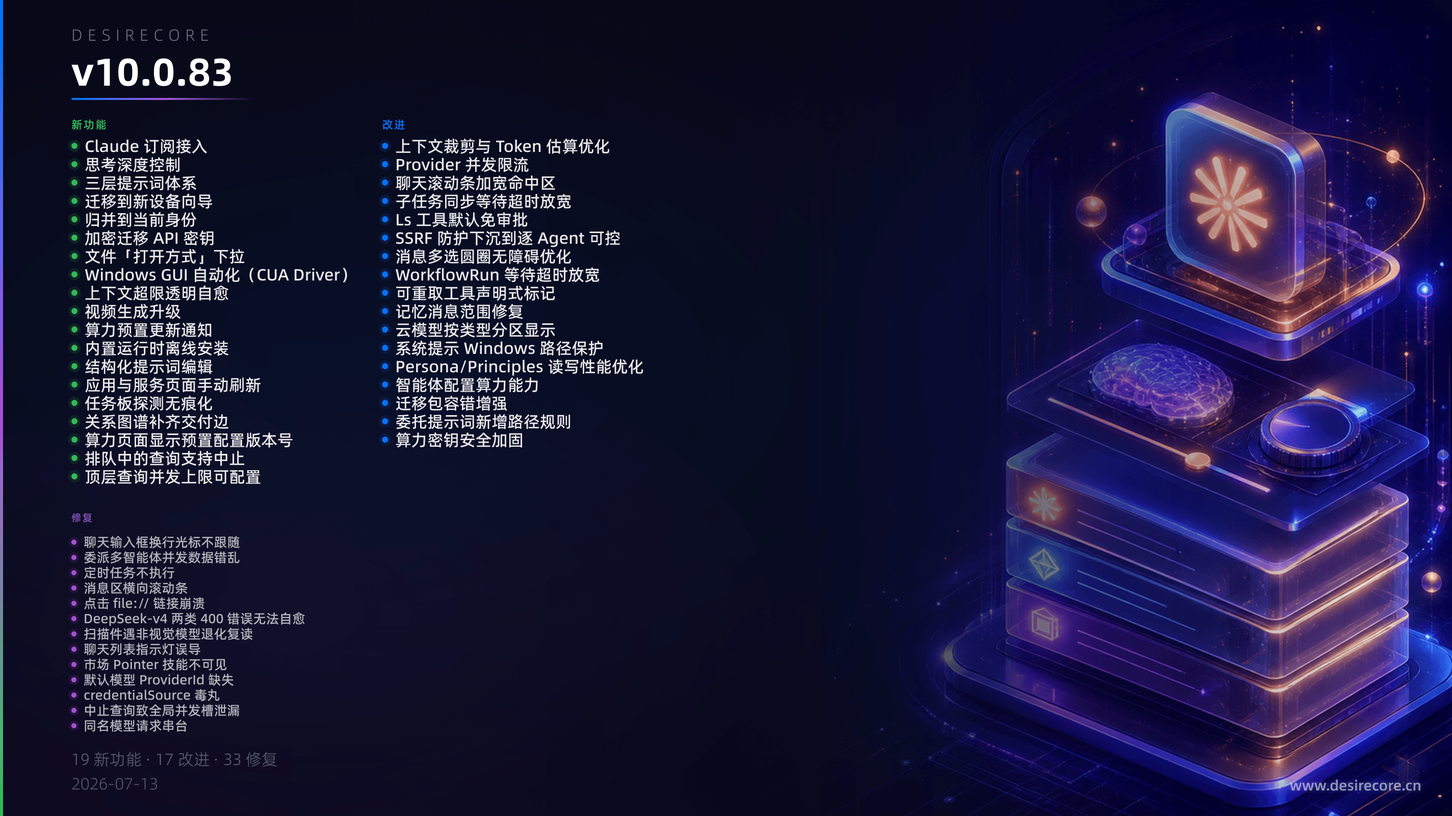
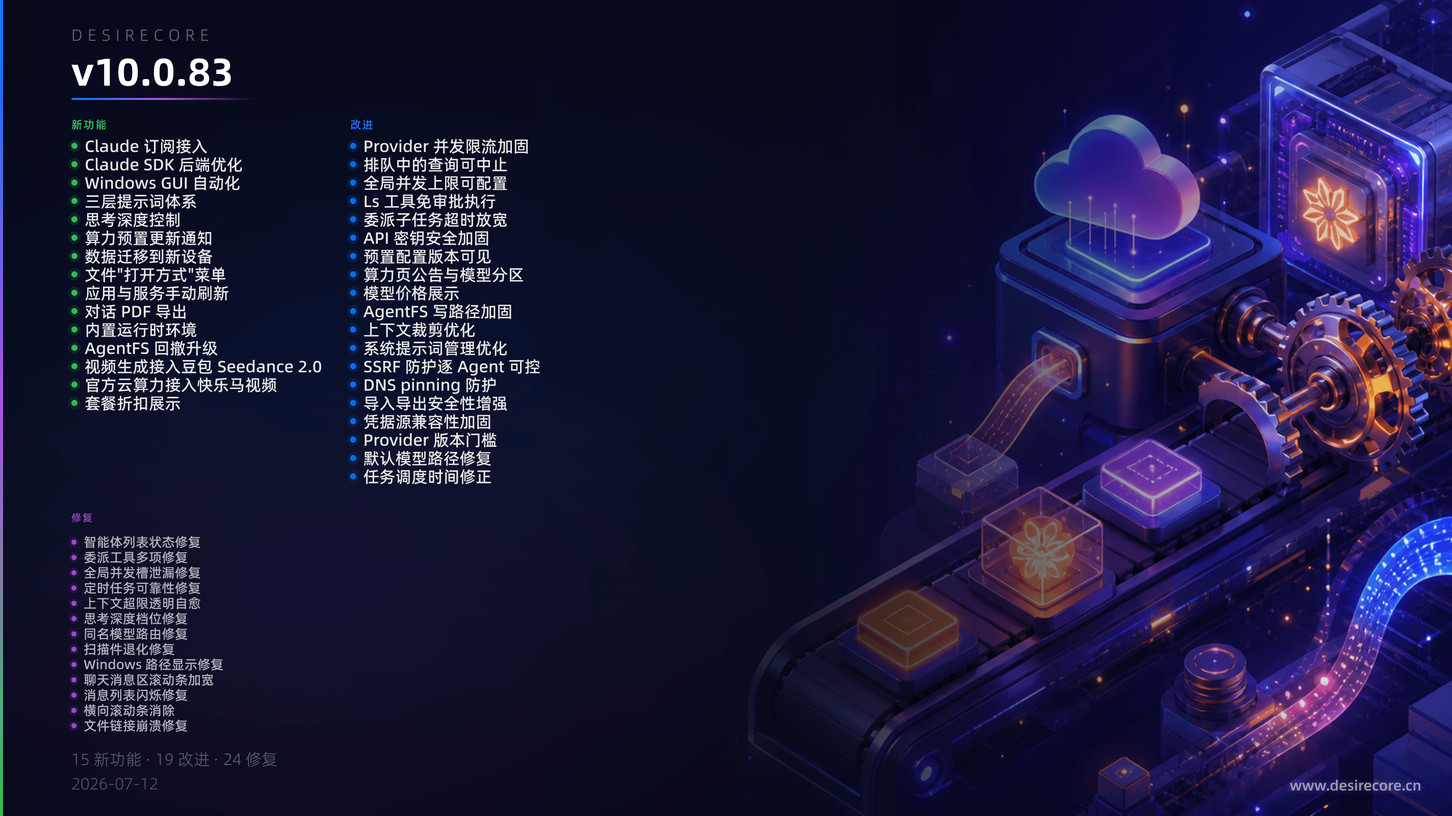
docs: update changelog for v10.0.83

diff --git a/i18n/en/docusaurus-plugin-content-docs/current/05-more/10-changelog/v10.0.83.md b/i18n/en/docusaurus-plugin-content-docs/current/05-more/10-changelog/v10.0.83.md
@@ -10,76 +10,65 @@ sidebar_position: 17
 ![v10.0.83 更新概览](/img/changelog/v10.0.83-en.png)
 
 ## New Features
-- **Claude Subscription Integration**: Support for logging in via Claude Code OAuth or manual configuration, using Claude Pro/Max subscription compute; model calls are fulfilled through the built-in official SDK backend with complete audit trails.
-- **Thinking Depth Control**: Added thinking depth level buttons in the chat input area, supporting Off / Auto / Deep multiple levels, with per-session memory; covers OpenAI, Anthropic, and domestic model dialects.
-- **Three-Tier Prompt System**: Added global (personal) and team-level prompts, injected on top of Agent-level prompts; new centralized Prompt Center for unified management, editing, and preview of all three tiers.
-- **Migrate to New Device Wizard**: A new “Migrate to New Device” entry in Settings, with a five-step wizard to export all data; on the new machine, the import process automatically recognizes the migration package, supports identity comparison, pre-backup protection, and restart to apply.
-- **Merge into Current Identity**: When importing a migration package, supports “Merge into Current Identity” mode, which remaps source identity data to the local identity name while keeping the local identity unchanged.
-- **Encrypted API Key Migration**: Optionally carry custom Provider API keys during migration, encrypted with a passphrase and stored independently (original secrets files are never included in the package); upon import, decide merging for each Provider individually.
-- **File “Open With” Dropdown**: File entries in chat messages now have an “Open With” menu, supporting in-app open, system default app, choose another app, and locate in file manager.
-- **Windows GUI Automation (CUA Driver)**: The Windows installer ships with cua-driver, enabling Agents to control desktop applications (screenshot, click, type, read window). Background operations do not steal focus, and users get out-of-the-box experience with zero setup.
-- **Transparent Context Overrun Self-Healing**: When the context exceeds the model’s true limit, the system automatically learns the real window and transparently retries; for large outputs, dynamic budget calculation produces the result in one go, eliminating manual adjustments.
-- **Video Generation Upgrade**: Upgraded to OpenAI Video API standard format, integrated official cloud compute for image/video generation, and adapted for the Doubao Seedance 2.0 video model.
-- **Compute Preset Update Notification**: When official Provider or model configurations published by config-center change, a notification badge and review panel show conflict diff and change details; users can adopt or keep each item.
-- **Built-in Runtime Offline Installation**: The installer bundles Python 3.13 and Node 24 LTS offline runtimes; they are silently imported in the background on first launch, enabling environment setup without internet.
-- **Structured Prompt Editing**: Agent persona and principles now support L0/L1/L2 layered form editing, with automatic format and schema validation on save; the system prompt preview panel shows segment proportions and allows copying the full prompt.
-- **Manual Refresh on Apps & Services Page**: Added a refresh button to manually synchronize registry directories and the pending approval queue.
-- **Stealth Task Board Probing**: Switching sessions no longer floods the console with 404 error logs from probing non-existent task boards.
-- **Relationship Graph Now Shows Delivery Edges**: After an Agent successfully delivers results, the “delivery” relationship edge is correctly displayed in the relationship graph, forming a closed loop with the “delegation” edge.
-- **Compute Page Shows Preset Configuration Version**: The header metadata area displays the current preset data version, aiding in troubleshooting configuration sync issues.
-- **Queued Queries Can Be Cancelled**: Users can stop a request at any time while waiting in the queue, preventing unconditional scheduling and execution.
-- **Top-Level Query Concurrency Limit Configurable**: The number of simultaneous top-level queries can be customized via an environment variable; interactive queries automatically take priority over background tasks.
+- **Claude Subscription Integration**: Claude Pro/Max subscriptions can now be used as a compute source. Connect via Claude Code login, in-app OAuth, or a manual token. Model calls are fulfilled through the official Agent SDK.
+- **Claude SDK Backend Optimization**: Conversation history automatically resumes a cached Claude session to reduce duplicate quota consumption. Images can be passed directly to the model. WebSearch is available during conversations.
+- **Windows GUI Automation**: The Windows client includes a built-in cua-driver. Agents can directly operate native application interfaces (screenshot, click, input) with zero installation and out‑of‑the‑box use.
+- **Three‑tier Prompt System**: A new global tier (user‑level) and team‑tier prompts are added, applied together with the Agent tier. The Prompt Center manages all three tiers with structured editing and live preview.
+- **Thinking Depth Control**: A thinking depth selector (Auto/Off/five depth levels) has been added to the input area. Supports three‑level priority: session, Agent, and global default, and works with OpenAI, Anthropic, and domestic model dialects.
+- **Compute Preset Update Notifications**: User‑customized Provider configurations are no longer silently overwritten by upstream updates. When conflicts arise, review them item by item in the review panel and adopt upstream values with a single click.
+- **Data Migration to a New Device**: The export wizard can package agents, configurations, and API keys (encrypted) for migration to a new device. During import, the system automatically identifies and completes identity replacement or data merging.
+- **File “Open With” Menu**: File entries in chats now have an “Open With” dropdown to let you open the file inside the app, with the system default, with another program, or locate it in the folder.
+- **Manual Refresh for Apps & Services**: A refresh button has been added to the page title bar so you can manually sync the service directory status.
+- **Conversation PDF Export**: Export now uses client‑side rendering, making the process more stable.
+- **Built‑in Runtimes**: Python 3.13 and Node.js 24 LTS are bundled with the installer, silently imported on first launch, and fully available offline.
+- **AgentFS Rollback Upgrade**: Agent file system rollback now uses Git full‑tree snapshots, supporting complete restoration. Git is built into the application so there are no system dependencies.
+- **Video Generation Integration with Doubao Seedance 2.0**: The video generation pipeline now adapts to the Doubao Seedance model, supporting start/end frames and multiple reference images.
+- **Official Cloud Compute Accesses Happyhorse Video**: Official cloud compute users can now use happyhorse-1.1 video generation and OpenAI image generation directly.
+- **Plan Discount Display**: The purchase page can now show strikethrough original prices and discount information.
 
 ## Fixes
-- **Cursor Not Following Line Breaks in Chat Input**: After operations like Shift+Enter line break, accepting prediction suggestions, or history recall, the cursor now scrolls into the visible area automatically.
-- **Data Corruption in Concurrent Multi-Agent Delegation**: Fixed data consistency issues during concurrent delegation, including team directory conflicts, member loss, half-written file corruption, and task count drift.
-- **Scheduled Tasks Not Executed**: Fixed an issue where scheduled tasks would reply with a single confirmation and then be truncated without ever completing; failed tasks now correctly back off and alert instead of infinitely retrying.
-- **Horizontal Scrollbar in Message Area**: Long URLs and wide Markdown tables no longer force a horizontal scrollbar; content is always fully visible.
-- **Crash When Clicking file:// Links**: Clicking a local file link in an Agent’s reply no longer crashes or grays out the window; instead it is opened with the system default app.
-- **Two Types of 400 Errors from DeepSeek-v4 Could Not Self-Heal**: Gateway `max_tokens` range limit errors and missing thinking block return errors are now automatically learned, corrected, and transparently retried.
-- **Scan with Non-Vision Model Degenerates into Repetition**: When reading a pure image-scan PDF using a non-vision model, the system now prompts to switch models directly instead of clearing tools, which previously caused the model to endlessly repeat output.
-- **Chat List Indicator Misleading**: The list indicator light no longer incorrectly shows green while an Agent is executing tools; it now correctly displays yellow (busy).
-- **Market Pointer Skill Invisible**: ADR-038 pointer-type skills are once again visible in the marketplace, searchable, and viewable in detail; version update detection works correctly.
-- **Missing ProviderId for Default Model**: Fixed a problem where historical data lost the ProviderId for the default model configuration, causing the default to become permanently invalid.
-- **credentialSource Poison Pill**: Fixed an issue where older clients merging a Provider preset containing unknown credential sources would reject the entire configuration, causing all compute to fail; now only unsupported Providers are skipped, and the rest work normally.
-- **Global Concurrency Slot Leak from Aborted Queries**: Repeatedly stopping queries manually no longer exhausts global concurrency slots, which previously froze all Agents. Also fixed leak paths triggered by system sleep and session reset.
-- **Request Misrouting for Identically Named Models**: When multiple Providers have identically named models, requests are no longer incorrectly routed to an unrelated Provider.
-- **Imported Agent List Offline**: Imported or cloned Agents now appear online in the list immediately without requiring an application restart.
-- **Missing Validation for Fan-out Delegation Targets**: When delegating to multiple targets simultaneously, invalid targets are now explicitly reported as failed instead of being silently skipped; the delegation card correctly shows all target names.
-- **AgentFS Hot Reload Failure**: Changes made by directly editing files like `agent.json` now take effect instantly without relying on manual refresh.
-- **Mismatched Async Acknowledgment for send_message**: Concurrent async message acknowledgments are no longer incorrectly assigned to other waiting synchronous requests.
-- **Mismatched Reply for Concurrent via-messaging Requests**: When the same caller makes multiple delegation/message/assist requests to the same target concurrently, replies are now precisely matched to the corresponding request.
-- **Window Flicker When Scrolling Past Bottom of Chat**: Continued scrolling after reaching the bottom of the message list no longer triggers window flickering.
-- **Chat Message Action Bar Overflow**: Action buttons beneath short messages no longer overflow and cover the timestamp.
-- **Unresponsive Selection Circle in Multi-Select Mode**: Fixed an issue where clicking the selection circle was unresponsive in certain scenarios.
-- **Market Repository Source Saving Stuck**: After adding a new repository source, the interface no longer gets stuck on “Saving” or shows repeated progress.
-- **Relationship Heat Value Overflow**: Relationship heat on the agent list is displayed as thousands with one decimal place, no longer bursting the card.
-- **Cannot Cancel During Pipeline Assembly Phase**: The tool assembly and context preparation phase (after acquiring a slot but before the actual query) now responds to stop operations.
-- **Service Directory Rendering Crash**: Dirty data generated when an Agent registers a service on behalf of someone no longer crashes the pending approval page; directory status updates in real time.
-- **Duplicate Team Creation with Same Name**: Duplicate team creation by AI repeated calls is now automatically deduplicated, preventing redundant teams.
-- **Orphaned Teams After Deleting Agent**: Teams that contained the deleted agent are automatically disbanded or have the member removed, preventing orphaned teams.
-- **Scanned Document Tool Clearance Causing Degenerative Repetition with Non-Vision Model**: Now directly prompts to switch model instead of letting the model fall into a dead loop with no available tools.
-- **Provider Concurrent Queue Without Timeout or Cancel**: Queued requests that are disconnected or aborted are immediately dequeued and no longer blocked.
-- **Failed to Clear Data on Windows**: Fixed errors when clearing data caused by read-only git files and reserved device name files.
-- **Git Operations Failed on Windows**: Fixed failures in market sync, Agent snapshots, etc., caused by git binary paths containing spaces or colons.
-- **Missing Cancel Checkpoint During Pipeline Assembly Phase**: Long-running steps like MCP tool discovery now respond to cancellation.
-- **Missing OpenAI Entry Point for Claude SDK Backend**: OpenAI-format requests are now correctly routed to the Claude SDK backend.
+- **Agent List State Fix**: Imported/cloned agents now appear online immediately without needing to restart the app. The chat sidebar correctly refreshes names after an agent is renamed.
+- **Multiple Delegation Tool Fixes**: Parallel delegation no longer skips target validation; invalid targets produce clear errors. Delegation cards correctly display multiple target names. AgentFS file watching resumes immediately and takes effect on change.
+- **Global Concurrency Slot Leak Fix**: Stopping generation no longer causes a session to be permanently stuck in “Queued”. Concurrency slots are no longer exhausted after the system wakes from sleep.
+- **Scheduled Task Reliability Fix**: Scheduled tasks now truly execute the full workflow when due, instead of being truncated after one reply. Failed tasks back off and retry correctly instead of retrying endlessly. One‑time tasks are prevented from firing more than once.
+- **Context Overflow Transparent Self‑Healing**: When the cloud model’s actual context window differs from what is declared, the system learns the real limit from error messages and auto‑adjusts. Large output is now produced in a single pass instead of being split into continuations.
+- **Thinking Depth Tier Fix**: The deepest tier’s budget no longer collapses; the distinction between tiers is back to normal. Resetting to the default tier no longer leaves a previous depth setting active.
+- **Same‑Name Model Routing Fix**: When an official cloud model and a local Provider share the same name, requests are now precisely routed to the intended Provider without leaking to another.
+- **Scanned Document Degradation Fix**: Non‑vision models reading pure scanned documents now prompt to switch models directly without getting stuck in infinite repetitive output.
+- **Windows Path Display Fix**: Windows paths in system prompts no longer lose backslashes and stay correct after copying.
+- **Chat Message Area Scrollbar Widened**: Makes mouse dragging easier.
+- **Message List Flicker Fix**: Scrolling further when already at the bottom no longer causes the whole window to flicker.
+- **Horizontal Scrollbar Eliminated**: Long URLs now wrap, and wide tables scroll internally, so content remains fully visible.
+- **File Link Crash Fix**: Clicking a local file link in an Agent reply no longer crashes the window; the file is opened by the system’s default application instead.
+- **Task Board Startup Noise Elimination**: Startup and session switching no longer generate 404 error logs.
+- **Market Repository Source Save Fix**: Adding a repository source no longer gets stuck at “Saving” or shows duplicates.
+- **Service Directory Real‑time Status Update**: The directory now refreshes automatically after a service is registered; no manual action is needed.
+- **Relationship Graph Delivery Edge Fix**: The relationship edge for successful Agent delivery is now correctly displayed.
+- **Input Cursor Following**: After actions like line breaks or history navigation, the cursor now auto‑scrolls into the visible area.
+- **Message Action Bar Overflow Fix**: Action buttons on short messages no longer cover the timestamp.
+- **Multi‑select Mode Fix**: Clicking the selection circle in multi‑select mode now responds reliably and is no longer intercepted by video players or other elements.
+- **Relationship Heat Display Optimization**: Heat values are now shown with a thousands separator and one decimal place, no longer overflowing the card.
+- **Windows Data Clear Fix**: In‑app data clearing no longer fails because of read‑only Git files or reserved device name files.
+- **macOS Build Fix**: Fixed packaging failures caused by notarization rejections and broken symbolic links.
+- **Large File Publishing Fix**: Large installer uploads now use chunked uploads, eliminating timeouts and freezes on slow links.
 
 ## Improvements
-- **Context Trimming and Token Estimation Optimization**: Trimming now uses a cheapest-first cascading strategy, with lossless unloading of re-fetchable tool results; token estimation now covers previously missed thinking and tool names, and non-OpenAI models automatically include additional margin.
-- **Provider Concurrency Limiting**: Each Provider can have a maximum concurrent request limit and queue size; excess requests wait in a queue instead of immediately failing. Configuration takes effect instantly.
-- **Wider Chat Scrollbar Hit Area**: The message list scrollbar track width increased to 10px for easier dragging.
-- **Relaxed Timeout for Synchronous Sub-Task Waiting**: Default wait time for delegation, `spawn_agent`, `send_message`, etc., extended from 5 minutes to 30 minutes; upon timeout, the task is no longer aborted automatically but instead prompts the caller to decide.
-- **Ls Tool Default No Approval**: Directory listing now executes directly; on macOS, first access to a protected directory triggers a system authorization dialog, and a permission denied response includes guidance.
-- **SSRF Protection Down to Per-Agent Control**: Each Agent can enable internal network protection individually, and DNS rebinding attacks are also blocked.
-- **Message Multi-Select Circle Accessibility Improved**: Selection circles are now semantic buttons, supporting keyboard operation and screen readers.
-- **Relaxed WorkflowRun Wait Timeout**: Running workflows is no longer truncated by a fixed timeout; a custom timeout can be passed.
-- **Declarative Marking of Re-fetchable Tools**: The “re-fetchable” attribute of a tool is now declared in the registry, and MCP tools automatically derive it based on the protocol.
-- **Memory Message Range Fix**: Message counts in thread details no longer show abnormally large values (billions); historical dirty data is auto-repaired.
-- **Cloud Models Display Partitioned by Type**: Official compute models are displayed in partitions (text / image generation / video generation), with pricing shown by billing mode and supplier announcements at the top.
-- **System Prompt Windows Path Protection**: Windows paths in system prompts are wrapped in inline code to prevent backslash escaping by Markdown.
-- **Persona/Principles Read/Write Performance Optimization**: Uses caching based on file modification time, re-parsing only after external edits.
-- **Agent Capability to Configure Compute**: Agents can help users configure Providers and API keys; keys are write-only for Agents.
-- **Enhanced Migration Compatibility**: Old-version export packages and future-version packages can be safely imported, with proactive alerts when importing across identities.
-- **Delegation Prompt Adds Path Rules**: When passing file resources across Agents, absolute paths are automatically used.
-- **Compute Key Security Hardening**: Keys are automatically masked in HTTP responses; plaintext viewing requires IPC channel authorization. Read/Grep/Ls tools are precisely denied access to key files.
+- **Provider Concurrent Rate Limiting Hardening**: You can now configure the maximum concurrent requests per Provider and a queuing strategy to avoid upstream throttling. A real‑time diagnostic endpoint is also provided.
+- **Cancellable Queries in Queue**: Queries waiting in the queue can now be properly cancelled. Interactive queries are prioritized over background tasks.
+- **Configurable Global Concurrency Limit**: The top‑level concurrent query limit defaults to 3 and can be adjusted via an environment variable.
+- **Ls Tool Execution Without Approval**: Listing directory contents no longer requires approval; permission checks are delegated to the operating system. Clear authorization guidance is provided when accessing restricted directories.
+- **Delegation Sub‑Task Timeout Relaxed**: The synchronous wait timeout has been extended from 5 minutes to 30 minutes. After a timeout, the sub‑task is no longer automatically terminated; the caller decides whether to continue or stop.
+- **API Key Security Hardening**: Agents can only write keys and cannot read them. Keys are masked by default in the UI. File tools precisely intercept attempts to read key files.
+- **Preset Configuration Version Visibility**: The current preset data version number is displayed at the top of the Compute page, making it easier to troubleshoot configuration sync issues.
+- **Compute Page Announcements & Model Partitioning**: Official cloud models are now displayed in partitions for Text, Image Generation, and Video Generation. Generation‑only models are marked “Unavailable in conversations”.
+- **Model Pricing Display**: Token‑priced models show a relative rate multiplier. Other billing modes show the unit price and pricing basis. Vendor information is displayed at the top.
+- **AgentFS Write Path Hardening**: Concurrent modification of Agent configurations no longer loses updates. Crashes during a write no longer leave half‑written files.
+- **Context Trimming Optimization**: The trimming budget is more precise. When results of re‑fetchable tools are evicted, re‑fetch guidance is preserved. Auto‑compression and memory injection ensure delivery to the model.
+- **System Prompt Management Improvements**: Agent‑level capability declaration toggles are now supported. Persona editing uses a structured form. Prompt preview shows the visual proportion of each section.
+- **Per‑Agent SSRF Protection**: Each Agent can independently configure restrictions for external network access, preventing DNS rebinding attacks.
+- **DNS Pinning Protection**: Before actually sending an outbound request, the Agent verifies the target IP again to prevent a domain from being tampered with to point to an internal network after registration.
+- **Import & Export Security Enhancement**: Prevents malicious zip archive boundary over‑writes. The service automatically recovers after a failed import.
+- **Credential Source Compatibility Hardening**: New credential source types no longer cause older clients to crash or make compute resources unavailable. Unsupported credential sources show a clear upgrade prompt.
+- **Provider Version Threshold**: Upstream Provider presets can declare a minimum client version. If the requirement is not met, an upgrade prompt is shown instead of silently failing.
+- **Default Model Path Fix**: Missing Provider identifiers in historical data are now auto‑repaired. Explicitly specified Providers are no longer incorrectly routed to other Providers.
+- **Task Scheduling Time Correction**: The current time is now automatically injected at every turn of the conversation. The Agent no longer calculates based on the “old time” from when the session started.

diff --git a/docs/05-more/10-changelog/v10.0.83.md b/docs/05-more/10-changelog/v10.0.83.md
@@ -10,76 +10,65 @@ sidebar_position: 17
 ![v10.0.83 更新概览](/img/changelog/v10.0.83.png)
 
 ## 新功能
-- **Claude 订阅接入**：支持通过 Claude Code OAuth 登录或手动配置，使用 Claude Pro/Max 订阅算力，模型调用经内置官方 SDK 后端履约，审计链路完整
-- **思考深度控制**：聊天输入区新增思考深度档位按钮，支持关闭/自动/深度多档调节，会话独立记忆；覆盖 OpenAI、Anthropic 及国产模型方言
-- **三层提示词体系**：新增全局层（个人）和团队层提示词，与 Agent 层叠加注入；新增集中式提示词中心，统一管理三层提示词的编辑与预览
-- **迁移到新设备向导**：设置页新增「迁移到新设备」入口，五步向导引导导出全量数据；新机导入时自动识别迁移包，支持身份对比、预备份保护和重启生效
-- **归并到当前身份**：导入迁移包时支持「归并到当前身份」模式，将包内源身份的数据定向重映射到本机名下，本机身份不变
-- **加密迁移 API 密钥**：迁移时可选择携带自定义 Provider 的 API 密钥，经口令加密后独立存储（原始 secrets 文件永不进包），导入时逐 Provider 决策合并
-- **文件「打开方式」下拉**：聊天消息中的文件条目新增打开方式菜单，支持应用内打开、系统默认应用、选择其他应用、在文件管理器中定位
-- **Windows GUI 自动化（CUA Driver）**：Windows 安装包内置 cua-driver，Agent 可操控桌面应用（截图、点击、输入、读取窗口），后台操作不抢焦点，用户零安装开箱即用
-- **上下文超限透明自愈**：当上下文超出模型真实上限时自动学习真实窗口并透明重试，大输出自动计算动态预算一次成型，无需手动调整
-- **视频生成升级**：升级为 OpenAI Video API 标准格式，接入官方云算力图像/视频生成，并适配豆包 Seedance 2.0 视频模型
-- **算力预置更新通知**：当 config-center 发布的官方 Provider 或模型配置发生变更时，通过通知角和审阅面板展示冲突对比与变更明细，用户可逐项决定采用或保留
-- **内置运行时离线安装**：安装包内置 Python 3.13 和 Node 24 LTS 离线运行时，首启后台静默导入，无需联网即可完成环境配置
-- **结构化提示词编辑**：Agent 的 persona 和 principles 支持 L0/L1/L2 分层表单编辑，保存时自动校验格式与 Schema；系统提示词预览面板可查看各段占比并复制全文
-- **应用与服务页面手动刷新**：新增刷新按钮，可手动同步注册表目录与待审批队列
-- **任务板探测无痕化**：切换会话时不再因探测不存在的任务板而在控制台刷 404 错误日志
-- **关系图谱补齐交付边**：Agent 成功交付结果后，关系图谱中正确显示「交付」关系边，与「委派」边形成闭环
-- **算力页面显示预置配置版本号**：头部元数据区展示当前预置数据版本，便于排查配置同步问题
-- **排队中的查询支持中止**：用户在排队等待期间可随时停止请求，不再被无条件调度执行
-- **顶层查询并发上限可配置**：通过环境变量可自定义同时运行的顶层查询数量，交互式查询自动优先于后台任务
+- **Claude 订阅接入**：支持 Claude Pro/Max 订阅作为算力来源，可通过 Claude Code 登录、应用内 OAuth 或手动 Token 三种方式连接，模型调用经官方 Agent SDK 履约。
+- **Claude SDK 后端优化**：对话历史自动续接已缓存的 Claude 会话，减少重复消耗配额；图片可直接透传给模型；WebSearch 在对话中可用。
+- **Windows GUI 自动化**：Windows 客户端内置 cua-driver，Agent 可直接操作原生应用界面（截图、点击、输入），零安装开箱即用。
+- **三层提示词体系**：新增全局层（用户级）和团队层提示词，与 Agent 层叠加生效；提示词中心统一管理三层内容，支持结构化编辑与实时预览。
+- **思考深度控制**：输入区新增思考深度选择按钮（自动/关闭/五档深度），支持会话级、Agent 级和全局默认三级优先级，适配 OpenAI、Anthropic 及国产模型方言。
+- **算力预置更新通知**：用户自定义的 Provider 配置不会被上游更新静默覆盖，产生冲突时在审阅面板逐项对比决策，支持一键采用上游值。
+- **数据迁移到新设备**：导出向导可打包智能体、配置和 API 密钥（加密保护）迁移到新设备，新机导入时自动识别并完成身份替换或数据归并。
+- **文件"打开方式"菜单**：聊天中的文件条目新增"打开方式"下拉，可选择应用内打开、系统默认应用、其他应用或在文件夹中定位。
+- **应用与服务手动刷新**：页面标题栏新增刷新按钮，可手动同步服务目录状态。
+- **对话 PDF 导出**：改为客户端本地渲染，导出更稳定。
+- **内置运行时环境**：Python 3.13 和 Node.js 24 LTS 随安装包内置，首启静默导入，完全离线可用。
+- **AgentFS 回撤升级**：Agent 文件系统回撤改用 Git 全树快照，支持整体还原，且应用内置 Git 确保无系统依赖。
+- **视频生成接入豆包 Seedance 2.0**：视频生成中转适配豆包 Seedance 模型，支持首尾帧和多参考图。
+- **官方云算力接入快乐马视频**：官方云算力用户可直接使用 happyhorse-1.1 视频生成和 OpenAI 图像生成。
+- **套餐折扣展示**：购买页面支持显示原价划线和折扣信息。
 
 ## 修复
-- **聊天输入框换行光标不跟随**：按 Shift+Enter 换行、接受预测建议、历史回溯等操作后，光标自动滚入可视区域
-- **委派多智能体并发数据错乱**：修复并发委派时团队目录冲突、成员丢失、文件半写损坏、任务计数漂移等数据一致性问题
-- **定时任务不执行**：修复定时任务到期后只回复一句确认就被截断、从未真正完成的问题；失败任务正确退避告警而非无限硬刷
-- **消息区横向滚动条**：长 URL 和宽 Markdown 表格不再撑出横向滚动条，内容始终完整可见
-- **点击 file:// 链接崩溃**：点击 Agent 回复中的本地文件链接不再导致窗口崩溃或灰屏，改为调用系统默认应用打开
-- **DeepSeek-v4 两类 400 错误无法自愈**：网关 max_tokens 范围限制和 thinking 块回传缺失两类报错现已自动学习修正并透明重试
-- **扫描件遇非视觉模型退化复读**：纯扫描件 PDF 用非视觉模型阅读时，改由系统直接提示切换模型，不再清空工具致模型陷入无限重复输出
-- **聊天列表指示灯误导**：智能体执行工具期间列表灯不再错误显示绿色，正确显示黄色忙碌状态
-- **市场 Pointer 技能不可见**：ADR-038 指针式技能重新出现在市场列表中，可正常浏览、搜索和查看详情，版本更新检测正确生效
-- **默认模型 ProviderId 缺失**：修复历史数据中默认模型配置丢失 ProviderId 导致默认值永久失效的问题
-- **credentialSource 毒丸**：修复老客户端合并含未知凭据源的 Provider 预设时整份配置被拒、算力全部失效的问题；现在仅跳过不支持的 Provider，其余正常使用
-- **中止查询致全局并发槽泄漏**：多次手动停止查询后不再耗尽全局并发槽导致所有 Agent 卡死，同时修复系统休眠和会话重置两条泄漏路径
-- **同名模型请求串台**：当多个 Provider 配置了同名模型时，请求不再错误路由到无关 Provider
-- **导入智能体列表离线**：导入或克隆智能体后立即在列表中显示在线状态，不再需要重启应用
-- **Fan-out 委派目标校验缺失**：同时委派多个目标时，无效目标现在会被明确报告失败而非静默跳过，委派卡片正确显示所有目标名称
-- **AgentFS 热更新失效**：直接编辑 agent.json 等文件后变更即时生效，不再依赖手动刷新
-- **send_message 异步回执错配**：并发的异步消息回执不再被错误分配给其他等待的同步请求
-- **via-messaging 并发请求回复错配**：同一调用方对同一目标并发发起多个委派/消息/协助请求时，回复精确匹配对应请求
-- **聊天滑到底继续滑动整窗闪烁**：消息列表滚到最底部后继续滑动不再触发窗口闪烁
-- **聊天消息操作栏溢出**：短消息下方操作按钮不再溢出盖住时间戳
-- **多选模式下点击选择圆圈无响应**：修复选择圆圈在某些场景下点击无反应的问题
-- **市场仓库源保存卡顿**：添加新仓库源后不再长时间卡在「保存中」或重复显示
-- **关系热度数值溢出**：智能体列表的关系热度显示为千分位加一位小数，不再撑破卡片
-- **流水线组装阶段无法取消**：获槽后、正式查询前的工具装配与上下文准备阶段现在可响应停止操作
-- **服务目录渲染崩溃**：智能体代注册服务时产生的脏数据不再导致待审批页面崩溃，目录状态实时更新
-- **团队同名重复创建**：AI 重复调用创建团队时自动去重，不再产生冗余团队
-- **删除智能体后团队残留**：被删智能体所在的团队自动解散或移除成员，不再有孤儿团队
-- **扫描件遇非视觉模型时清空工具导致退化复读**：现在直接提示切换模型，不再让模型陷入无工具可调的死循环
-- **Provider 并发排队无超时无取消**：排队等待期间断开连接或中止请求可立即出队，不再被阻塞
-- **Windows 下清除数据失败**：修复只读 git 文件和保留设备名文件导致清除数据报错的问题
-- **Windows git 操作失败**：修复 git 二进制路径含空格或冒号时市场同步、Agent 快照等全部失败的问题
-- **流水线组装阶段取消检查点缺失**：MCP 工具发现等长耗时步骤期间可响应取消
-- **Claude SDK 后端 openai 入口缺失**：OpenAI 格式请求也能正确路由到 Claude SDK 后端
+- **智能体列表状态修复**：导入/克隆的智能体现在立即显示为在线，不再需要重启应用；聊天侧边栏在智能体改名后正确刷新名称。
+- **委派工具多项修复**：并行委派不再跳过目标校验，无效目标会明确报错；委派卡片正确显示多目标名称；AgentFS 文件监听恢复即改即生效。
+- **全局并发槽泄漏修复**：停止生成不再导致会话卡死在"排队中"，系统休眠唤醒后不再耗尽并发槽。
+- **定时任务可靠性修复**：定时任务到期后真正执行完整流程，不再只回一句就被截断；失败任务正确退避重试，不再无限重刷；一次性任务杜绝重复触发。
+- **上下文超限透明自愈**：云端模型实际上下文窗口与声明不符时，系统从报错中学习真实上限并自动调整，大输出一次成型不再分步续写。
+- **思考深度档位修复**：最深档位的预算不再塌缩，各档位区分度恢复正常；选回默认档位后不再残留之前的深度设置。
+- **同名模型路由修复**：官方云算力与本地 Provider 存在同名模型时，请求精确路由到目标 Provider，不再串台。
+- **扫描件退化修复**：非视觉模型读取纯扫描件时直接提示切换模型，不再陷入无限重复输出。
+- **Windows 路径显示修复**：系统提示中的 Windows 路径不再丢失反斜杠，复制后保持正确。
+- **聊天消息区滚动条加宽**：方便鼠标拖拽。
+- **消息列表闪烁修复**：滚到底部继续滑动不再导致整窗闪烁。
+- **横向滚动条消除**：长 URL 折行显示，宽表格内部横滚，内容始终完整可见。
+- **文件链接崩溃修复**：点击 Agent 回复中的本地文件链接不再导致窗口崩溃，文件交由系统默认应用打开。
+- **任务板启动噪音消除**：启动和切换会话时不再产生 404 报错日志。
+- **市场仓库源保存修复**：添加仓库源后不再卡在"保存中"或重复显示。
+- **服务目录状态实时更新**：注册服务后目录自动刷新，不再需手动操作。
+- **关系图谱补齐交付边**：Agent 成功交付结果的关系边现在正确显示。
+- **输入框光标跟随**：换行、历史回溯等操作后光标自动滚入可视区域。
+- **消息操作栏溢出修复**：短消息的操作按钮不再盖住时间戳。
+- **多选模式修复**：多选模式下点击选择圆圈可靠响应，不再被视频播放器等元素拦截。
+- **关系热度显示优化**：热度数值以千分位加一位小数展示，不再撑破卡片。
+- **Windows 清除数据修复**：应用内清除数据不再因只读 Git 文件或保留设备名文件失败。
+- **macOS 构建修复**：解决公证被拒和符号链接损坏导致的打包失败。
+- **大文件发布修复**：大安装包上传改用分片上传，慢链路上不再超时卡死。
 
 ## 改进
-- **上下文裁剪与 Token 估算优化**：裁剪采用 cheapest-first 级联策略，可重取工具结果无损卸载；Token 估算覆盖此前漏数的 thinking 和工具名，非 OpenAI 家族模型自动增加余量
-- **Provider 并发限流**：支持为每个 Provider 设置最大并发请求数和排队上限，超出部分排队等待而非直接报错，配置即时生效
-- **聊天滚动条加宽命中区**：消息列表滚动条轨道加宽至 10px，鼠标更容易拖拽
-- **子任务同步等待超时放宽**：委派、spawn_agent、send_message 等子任务的默认等待时间从 5 分钟延长至 30 分钟，超时不再自动中止，改为提示调用方决策
-- **Ls 工具默认免审批**：列出目录改为直接执行，macOS 首次访问受保护目录时自动弹出系统授权框，权限被拒时返回引导文案
-- **SSRF 防护下沉到逐 Agent 可控**：每个 Agent 可单独开启内网防护，DNS Rebinding 攻击也被阻断
-- **消息多选圆圈无障碍优化**：选择圆圈改为语义化按钮，支持键盘操作和屏幕阅读器
-- **WorkflowRun 等待超时放宽**：执行工作流时不再被固定超时截断，支持传入自定义超时
-- **可重取工具声明式标记**：工具的「可重取」属性改为注册表声明，MCP 工具根据协议自动推导
-- **记忆消息范围修复**：话题详情中消息条数不再显示亿级异常数值，历史脏数据自动修复
-- **云模型按类型分区显示**：官方算力模型按文本/图片生成/视频生成分区展示，支持按计费模式显示价格，顶部展示供应商公告
-- **系统提示 Windows 路径保护**：系统提示词中的 Windows 路径用行内代码包裹，避免反斜杠被 Markdown 转义丢失
-- **Persona/Principles 读写性能优化**：基于文件修改时间的缓存，仅在外部编辑后重新解析
-- **智能体配置算力能力**：Agent 可帮用户配置 Provider 和 API 密钥，密钥对 Agent 只写不读
-- **迁移包容错增强**：旧版导出包和未来版本包均可安全导入，跨身份导入时主动告警
-- **委托提示词新增路径规则**：跨 Agent 传递文件资源时自动使用绝对路径
-- **算力密钥安全加固**：密钥在 HTTP 响应中自动脱敏，明文查看需 IPC 通道授权；Read/Grep/Ls 工具精确拒绝读取密钥文件
+- **Provider 并发限流加固**：支持配置单个 Provider 的最大并发请求数和排队策略，避免上游限流，并提供实时诊断端点。
+- **排队中的查询可中止**：等待队列中的查询现在可以正常取消，交互式查询优先于后台任务执行。
+- **全局并发上限可配置**：顶层并发查询上限默认 3，可通过环境变量调整。
+- **Ls 工具免审批执行**：列出目录内容不再需要审批，权限判断交给操作系统；访问受限目录时提供清晰的授权引导。
+- **委派子任务超时放宽**：同步等待超时从 5 分钟延长到 30 分钟，超时后不再自动中止子任务，交由调用方决定继续或结束。
+- **API 密钥安全加固**：Agent 只能写入密钥不可读取，UI 中密钥默认掩码，文件工具精确拦截读取密钥文件。
+- **预置配置版本可见**：算力页面头部显示当前预置数据版本号，便于排查配置同步问题。
+- **算力页公告与模型分区**：官方算力模型按文本、图片生成、视频生成分区展示，生成类模型标注"对话不可用"。
+- **模型价格展示**：按 Token 计价的模型显示相对倍率，其他计费模式显示单价与计价基准，顶部展示供应商信息。
+- **AgentFS 写路径加固**：并发修改 Agent 配置时不再丢失更新，崩溃中断写入不留半写文件。
+- **上下文裁剪优化**：裁剪预算更精确，可重取工具的结果被卸载时保留重取指引，自动压缩和记忆注入确保送达模型。
+- **系统提示词管理优化**：支持 Agent 级能力声明开关，persona 编辑提供结构化表单，提示词预览按分区可视化占比。
+- **SSRF 防护逐 Agent 可控**：每个 Agent 可独立配置外网访问限制，防止 DNS 重绑定攻击。
+- **DNS pinning 防护**：Agent 外呼请求在真正发送前复核目标 IP，防止域名在注册后被篡改指向内网。
+- **导入导出安全性增强**：防止恶意 Zip 包越界写入，导入失败后服务自动恢复。
+- **凭据源兼容性加固**：新增凭据源类型不再导致老客户端崩溃或算力不可用，不支持的凭据源显示明确升级提示。
+- **Provider 版本门槛**：上游 Provider 预设可声明最低客户端版本，不满足时展示升级提示而非静默失效。
+- **默认模型路径修复**：历史数据中 Provider 标识缺失时自动修复，显式指定的 Provider 不再被错误路由到其他 Provider。
+- **任务调度时间修正**：每轮对话自动注入当前时间，Agent 不再基于会话开始时的"旧时间"推算。
